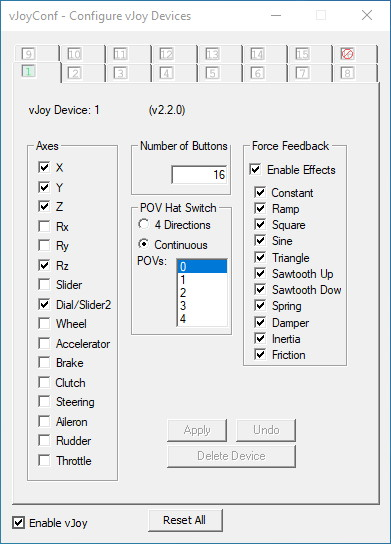
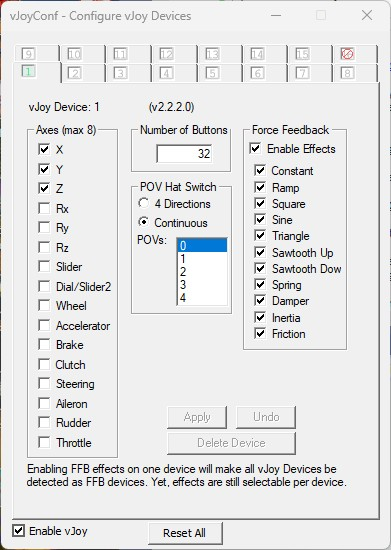
Update comments and prepare for v0.8

diff --git a/README.md b/README.md
@@ -14,7 +14,7 @@ ranging from Sega Model 1 up to recent PC-based cabinets. Some cabinets equiped
 with DC motors (like Midway's ones) are also supported through third-party 
 electronics.
 
-This work has been done in a few weeks thanks to  other people who paved the road 
+This work has been done thanks to other people who paved the road 
 before me.
 
 In particular, this project is strongly based on the amazing work done by 
@@ -41,9 +41,9 @@ A lot of documentation is also available in the french forum
 
 ## What is working?
 
-The software supports 4x Analog inputs for 1 steering wheel and 3 pedals, 12 
-to 16 digital inputs for buttons, and optionally on the Mega2560 an additionnal
-keypad decoder that can be used to report 12 more raw inputs).
+The software supports 4x Analog inputs for 1 steering wheel and 3 pedals, up 
+to 32 digital inputs for buttons, and optionally on the Mega2560 an additionnal
+keypad decoder.
 
 Force feedback output is handled with following modes :
 - analog PWM+Dir 
@@ -55,31 +55,31 @@ Touring Cars, Le Mans 24, ...
 the best torque control capability: Scud Race, Daytona 2, Sega Rally 2, E.C.A,
 Dirt Devils, Nascar, F355 Challenge, ...
 - almost all Sega Naomi, Lingbergh, Ringedge/wide up to the latest PC based
-servoboard using FFB controller : Initial D series, Outrun 2 series, ...
+servoboard using direct serial communication: Initial D series, Outrun 2 series, ...
 - almost all Happ or DC-motor based cabinets (Midway, new Sega cabinets) using
-either an L6204 or a PWM2HAPP motor control board: Grid, Sega Rally 3, Cruis'n series
+either an L6204, BTS7960 or a PWM2HAPP motor control board: Grid, Sega Rally 3, Cruis'n series
 
 In most cases, FFB effects are emulated by cheating with fast constant-torque 
-commands@5ms (200Hz).
+commands at 5ms (200Hz) or 10ms (100Hz).
 This allows for full effects to be played on your setup, whatever the
-underlying driveboard can provide. Emulating requires at least the constant torque
+underlying driveboard can provide. Emulating effects requires at least the constant torque
 effect to be operationnal on your motor driver (ie a rumble-only setup cannot be used).
 
 Calibration of the wheel rotation and analog inputs can pe performed from the GUI 
-to map your physical wheel amplitude to the maximum vJoy amplitude (0..32768), same 
-for pedals motion.
+to map your physical wheel amplitude to the maximum vJoy amplitude, same 
+for pedals.
 Digital inputs are mapped to buttons and remapping is possible using the GUI. 
-This allows to finally handle your personnal setup.
+This allows to finally handle your personnal setup whatever the wiring has been done.
 
 Outputs (to drive lamps) are retrieved for MAME, Supermodel (model 3), m2emulator,
 and OutputBlasters plugin games (Teknoparrot) using either MAME Windows Output
-system, or direct raw memory read (model 2).
+system, network output system (MAME/flycast), or direct raw memory read (model 2).
 Already a lot of games are handled properly, and more are added over the time.
 Many thanks to SailorSat& BigPanik and Boomslangnz for all their work.
 
 The software also allows to define "control sets" for a unique configuration per game or
 per emulator. The control sets store parameters that can be tuned according to each game
-or emulator behavior. Using runtime auto-detection based on current running process and
+or emulator behavior. Using runtime auto-detection based on current running process name and
 main window's title, the software will automatically switch its configuration according
 to the current game playing.
 
@@ -101,23 +101,21 @@ better FFB feeling.
 
 ## How to use it
 
-Two possibilities are offered : either pick the latest released installer/setup, or
+Two possibilities are offered: either pick the latest released installer/setup, or
 compile the software by your own.
 
 To build the application, please install Visual Studio 2019 Community Edition
 with C# for Desktop.
 
-The software expect vJoy 2.2.1 to be installed, so please install it separatly
-(see subdirectory tools/vJoySetup_2.2.1 signed.exe).
+The software expect vJoy 2.2.2 to be installed, so please install it separatly
+(see subdirectory tools/vJoySetup exe).
 
 Next, configure the first virtual joystick using the Configure vJoy tool with
 following options:
 
 ![vJoy configuration](https://github.com/njz3/vJoyIOFeederWithFFB/blob/master/docs/vJoyConfig.jpg)
 
-**Note:** Only 3 or 4 vJoy axes are useful. The 5th axis Dial/Slider2 is only 
-used as a monitoring value to see how much torque is send to the motor driver
-when using PWM mode.
+**Note:** Only 3 or 4 vJoy axes are useful.
 
 ## Configuring and cabling the hardware
 
@@ -130,8 +128,8 @@ Analog PWM or Dual PWM output can be used for DIY steering wheels.
 For PWM2M2 or PWM2HAPP installation (Sega Model 1/2, Midway cabinets), crawl on the web for information.
 The system shall be configured with PWM_CENTERED and digital PWM enabled (serial communication).
 
-Hardcoded wiring on the Arduino Leonardo:
-- 12 Buttons are mapped to D2-D8 (seven inputs), D12 (plus one) and D0/D1/A4/A5 (four more)
+The wiring on the Arduino Leonardo is the following:
+- 8 Buttons are mapped to: D2-D8 (seven inputs) and D12, 4 buttons on D0/D1/A4/A5
 - Wheel "volume" potentiometer is A0
 - Accel "volume" is A1
 - Brake "volume" is A2
@@ -139,11 +137,11 @@ Hardcoded wiring on the Arduino Leonardo:
 - analog PWM output is D9 (configured for fast PWM at 15,6kHz), either 0-100% or centered value.
 - dual analog PWM output on D9/D10 for 
 - digital ouput for Direction is D10 for forward, D11 for backward.
-- for digital PWM: use SerialPort 0's Tx on D1
+- for digital PWM: use SerialPort0 Tx on D1 (in this case the D0 button input cannot be used)
 
 For the mega2560, same wiring except:
-- 8 Buttons are mapped to D2-D8 (seven inputs), D12 (plus one), 8 buttons are mapped to D38-D41 and D50-D53
-- 8 more inputs are mapped to D30-D37 (can be used for buttons)
+- 8 Buttons are mapped to D2-D8 (seven inputs) and D12, and 8 more buttons are mapped to D38-D41 and D50-D53
+- 8 more inputs are mapped to D30-D37 for sega's driveboard parallel rx, or they can be used for buttons
 - Wheel "volume" potentiometer is A0
 - Accel "volume" is A1
 - Brake "volume" is A2
@@ -152,7 +150,7 @@ For the mega2560, same wiring except:
 15,6kHz), either 0-100% or centered value.
 - dual analog PWM output on D9/D10
 - digital ouput for Direction is D10 for forward, D11 for backward.
-- for digital PWM: Use SerialPort 3's Tx3 (pin D14) for the Mega2560.
+- for digital PWM: use SerialPort 3's Tx3 (pin D14) for the Mega2560.
 - if keypad decoding is used (see "USE_KEYPAD" in the Arduino's code), then 
 D42-D48 are used for key press decoding. In this case, 12 more raw inputs (keys)
 are reported back to the feeder.
@@ -171,8 +169,7 @@ For cabling the Model 2/3 drive board with a parallel communication bus connecte
 to an Arduino Mega2560, see [BigPanik's webpage here](http://superusr.free.fr/model3.htm).
 
 Hardcoded wiring on the Arduino Mega2560:
-- 8 Buttons are mapped to D2-D8 (seven inputs), D12 (plus one), 8 more buttons 
-are mapped to D38-D41 and D50-D53
+- 8 Buttons are mapped to D2-D8 (seven inputs) and D12, and 8 more buttons are mapped to D38-D41 and D50-D53
 - Wheel "volume" potentiometer is A0
 - Accel "volume" is A1
 - Brake "volume" is A2
@@ -204,8 +201,8 @@ Recommended inputs wiring for 4-axes and 32 vJoy buttons setup:
 - D8: View button 3, mapped to vJoy 7 (VIEW3)
 - D12:View button 4, mapped to vJoy 8 (VIEW4)
 
-- D38: U/D-shifter Up or H-shifter 0 (Up row), mapped to vJoy 9 (SHIFTER DOWN)
-- D39: U/D-shifter Down or H-shifter 1 (Left/Right side), mapped to vJoy 10 (SHIFTER UP)
+- D38: U/D-shifter Up or H-shifter 0 (Up row), mapped to vJoy 9 (SHIFTER UP)
+- D39: U/D-shifter Down or H-shifter 1 (Left/Right side), mapped to vJoy 10 (SHIFTER DOWN)
 - D40: H-shifter 2 (Down row), mapped to vJoy 11 (SHIFTER SIDE)
 - D41: Optional music button mapped to vJoy 12 (MUSIC)
 
@@ -283,7 +280,13 @@ Outputs:
 
 #### Lindbergh, Ringedge, PC-based Servo Board with Midi, RS422 or RS232: 
 
-Use Aganyte's FFB Converter board (based on Arduino Mega2560).
+The software supports natively those servoboard and their serial communication protocol.
+You can use a standard USB to RS232/RS422 converter and wire directly your PC to your
+servoboard using the converter.
+The mode to use is RS_SEGA. If you don't see any initialization of the wheel, check the 
+log for any error.
+
+As an alternative, you can also use Aganyte's FFB Converter board (based on Arduino Mega2560).
 This FFB Converter board will translate PWM commands from the feeder application
 directly to Sega's proprietary protocol without using another Arduino.
 The system shall be configured with PWM_CENTERED and digital PWM enabled 
